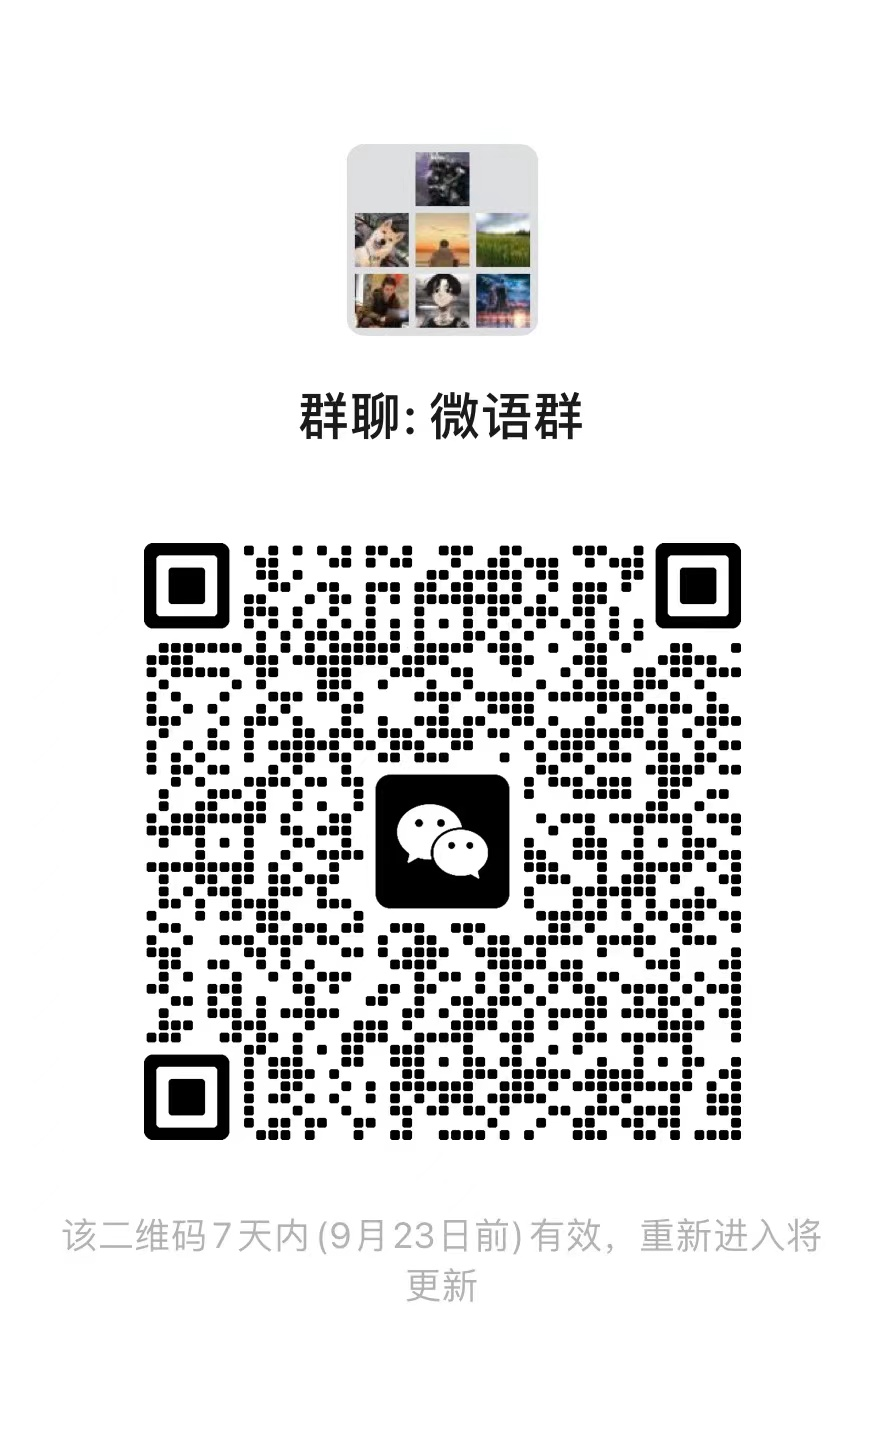
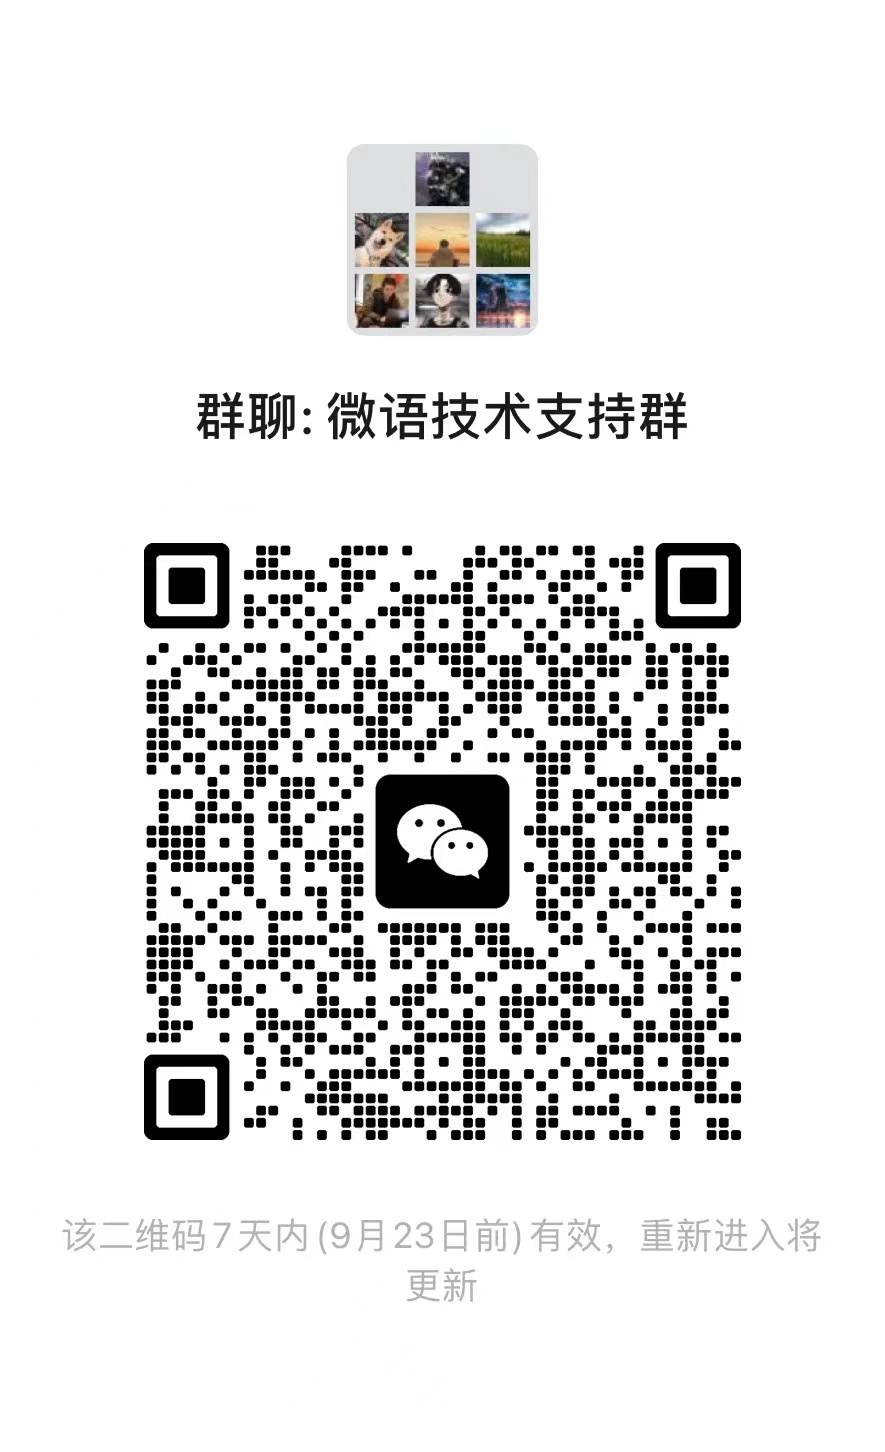
update

Changed region(s): [[0.1525, 0.3719, 0.8542, 0.8058], [0.2136, 0.2479, 0.7932, 0.3099]]

diff --git a/README.zh.md b/README.zh.md
@@ -2,7 +2,7 @@
  * @Author: jackning 270580156@qq.com
  * @Date: 2024-06-05 09:44:23
  * @LastEditors: jackning 270580156@qq.com
- * @LastEditTime: 2024-09-16 11:41:26
+ * @LastEditTime: 2024-09-16 11:48:45
  * @Description: bytedesk.com https://github.com/Bytedesk/bytedesk
  *   Please be aware of the BSL license restrictions before installing Bytedesk IM – 
  *  selling, reselling, or hosting Bytedesk IM as a service is a breach of the terms and automatically terminates your rights under the license. 
@@ -183,6 +183,7 @@ h2数据库: http://127.0.0.1:9003/h2-console, 路径: ./h2db/weiyuim, 用户名
 
 - [Email](mailto:270580156@qq.com)
 - [微信](./images/wechat.png)
+- 微语技术支持群：
 - <img src="./images/wechat_group.jpg" width="200">
 - 如群二维码过期，请添加微信，备注: 微语
 - <img src="./images/wechat.png" width="200">
